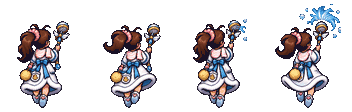
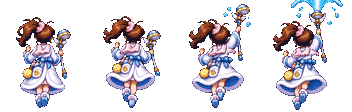
응가 팩: 엄마 비행 스프라이트 v2 (사용자 확정 프롬프트) — 공격 이펙트 프레임 위쪽 잘라 맞춤(--clip-effect)으로 4프레임 몸 크기 통일, 인게임 프레임 전환 검사 도구(캔버스 캡처 ↔ 시트 픽셀 대조) 추가
Claude-Session: https://claude.ai/code/session_011LWBdaMrjA1BLGjF6h5PmT

diff --git a/tools/sky-art-import.py b/tools/sky-art-import.py
@@ -246,6 +246,7 @@ def main():
     ap.add_argument('--remove-bg', action='store_true')
     ap.add_argument('--bg-tol', type=int, default=40)
     ap.add_argument('--box')
+    ap.add_argument('--clip-effect', action='store_true', help='fly: 공격 이펙트 때문에 큰 프레임은 배율 계산에서 빼고 넘치는 위쪽만 자름')
     ap.add_argument('--auto-split', action='store_true', help='fly: 칸이 고르지 않은 생성 시트에서 캐릭터 4개를 자동으로 찾아 분리')
     ap.add_argument('--compose', action='store_true', help='cutin: 확정 원화(상반신)를 집중선 배경 위에 배치해 720×360 컷인 합성')
     ap.add_argument('--color', default='#8a3fd1', help='cutin --compose 집중선 색')
@@ -328,11 +329,23 @@ def main():
         parts = auto_split(im, 4) if args.auto_split else split_frames(im, 4)
         # 4프레임을 '같은 배율'로 줄임 (프레임마다 따로 맞추면 물줄기 같은 이펙트가 있는 프레임만 캐릭터가 작아짐)
         tr = [trim(f) for f in parts]
-        k = min(80 / max(t.width for t in tr), 104 / max(t.height for t in tr), 1.0)
+        if args.clip_effect:
+            # 공격 이펙트(물줄기 등)로 유난히 큰 프레임은 배율 계산에서 빼고, 넘치는 이펙트 위쪽만 칸에 맞게 자름
+            # → 이펙트 하나 때문에 4프레임 몸 전체가 작아지는 것을 막음 (몸·얼굴 크기는 4프레임 동일)
+            hmin = min(t.height for t in tr)
+            body = [t for t in tr if t.height <= hmin * 1.3] or tr
+            k = min(80 / max(t.width for t in body), 104 / max(t.height for t in body), 1.0)
+            print(f'  이펙트 프레임 위쪽 잘라 맞춤: 배율 기준 {len(body)}프레임 · 큰 프레임 {len(tr) - len(body)}개')
+        else:
+            k = min(80 / max(t.width for t in tr), 104 / max(t.height for t in tr), 1.0)
         cells = [t.resize((max(1, round(t.width * k)), max(1, round(t.height * k))), Image.LANCZOS) for t in tr]
         out = Image.new('RGBA', (352, 112))
         for i, f in enumerate(cells):
-            out.paste(f, (i * 88 + (88 - f.width) // 2, 112 - 4 - f.height), f)
+            if f.height > 110 or f.width > 86:  # 칸(88×112)을 넘는 이펙트: 아래(몸) 기준으로 위·좌우만 잘라 냄
+                cw = min(f.width, 86)
+                x0 = (f.width - cw) // 2
+                f = f.crop((x0, max(0, f.height - 110), x0 + cw, f.height))
+            out.paste(f, (i * 88 + (88 - f.width) // 2, 112 - 4 - f.height if f.height <= 108 else 112 - 2 - f.height), f)
         out = pixelize(out, 150)  # 4프레임이 같은 팔레트를 쓰도록 시트 전체를 한 번에 정리
         if not motion_check([out.crop((i * 88, 0, i * 88 + 88, 112)) for i in range(4)]) and not args.dry_run:
             die('프레임이 서로 복제라서 비행 스프라이트로 쓸 수 없습니다 (저장 안 함)')

diff --git a/tools/sky-fly-anim-verify.py b/tools/sky-fly-anim-verify.py
@@ -1,0 +1,30 @@
+"""sky-fly-anim-check.cjs 가 저장한 캔버스 조각이 실제로 시트의 몇 번 프레임인지 픽셀 비교로 확인 + 띠 이미지·GIF 생성
+사용: python3 tools/sky-fly-anim-verify.py <캡처폴더> <id> <out-prefix>"""
+import sys, glob, re, os
+import numpy as np
+from PIL import Image
+d, fid, outp = sys.argv[1:4]
+sheet = np.array(Image.open(f'public/assets/sky/v3-poop/chars/{fid}/fly.png').convert('RGBA')).astype(int)
+cells = [sheet[:, i * 88:(i + 1) * 88] for i in range(4)]
+files = sorted(glob.glob(f'{d}/{fid}-*.png'))
+ok = 0; seen = []; ims = []
+for fp in files:
+    eng = int(re.search(r'-f(\d)\.png$', fp).group(1))
+    c = np.array(Image.open(fp).convert('RGBA')).astype(int)
+    best = (-1, None)
+    for fi, cell in enumerate(cells):
+        m = cell[..., 3] == 255
+        for oy in range(8, 34):
+            for ox in range(12, 22):
+                reg = c[oy:oy + 112, ox:ox + 88, :3]
+                if reg.shape[:2] != (112, 88): continue
+                sc = (np.abs(reg - cell[..., :3]).sum(2)[m] < 40).mean()
+                if sc > best[0]: best = (sc, fi)
+    seen.append(best[1]); ok += best[1] == eng
+    ims.append(Image.open(fp).convert('RGB'))
+print(f'{fid}: 화면 프레임 = 엔진 프레임 {ok}/{len(files)} · 화면에 나온 프레임 종류 {sorted(set(seen))} · 순서 {"".join(map(str, seen))}')
+strip = Image.new('RGB', (120 * 12, 140))
+for i, im in enumerate(ims[:12]): strip.paste(im, (i * 120, 0))
+strip.resize((strip.width * 2, 280), Image.NEAREST).save(outp + '-strip.png')
+big = [im.resize((240, 280), Image.NEAREST) for im in ims]
+big[0].save(outp + '.gif', save_all=True, append_images=big[1:], duration=33, loop=0)

diff --git a/docs/sky-reboot/credit-log.md b/docs/sky-reboot/credit-log.md
@@ -14,3 +14,4 @@
 | 7 | 삼촌 유산균 소환체 3종×4프레임 | GPT Image 2.6 medium 2k 투명 3:2 + 참고 2장 (삼촌 원화 · 엄마 비행 시트) | 1 | 1 | 7 |
 | 8 | 전투 이펙트 8종 (물방울 · 프룬 구슬 · 하트 · 불꽃 · 육각 방패 · 세균 · 보라/물 스플래시) | GPT Image 2.6 medium 2k 투명 16:9 + 참고 1장 | 1 | 1 | 8 |
 | 9 | 할머니 화난 얼굴 (필살기 컷인용 상반신) | GPT Image 2.6 medium 2k 투명 2:3 + 할머니 원화 | 1 | 1 | 9 |
+| 10 | 엄마 비행 시트 v2 (사용자 확정 프롬프트) | GPT Image 2.6 medium 2k 투명 21:9 + 엄마 원화 | 1 | 1 | 10 |
